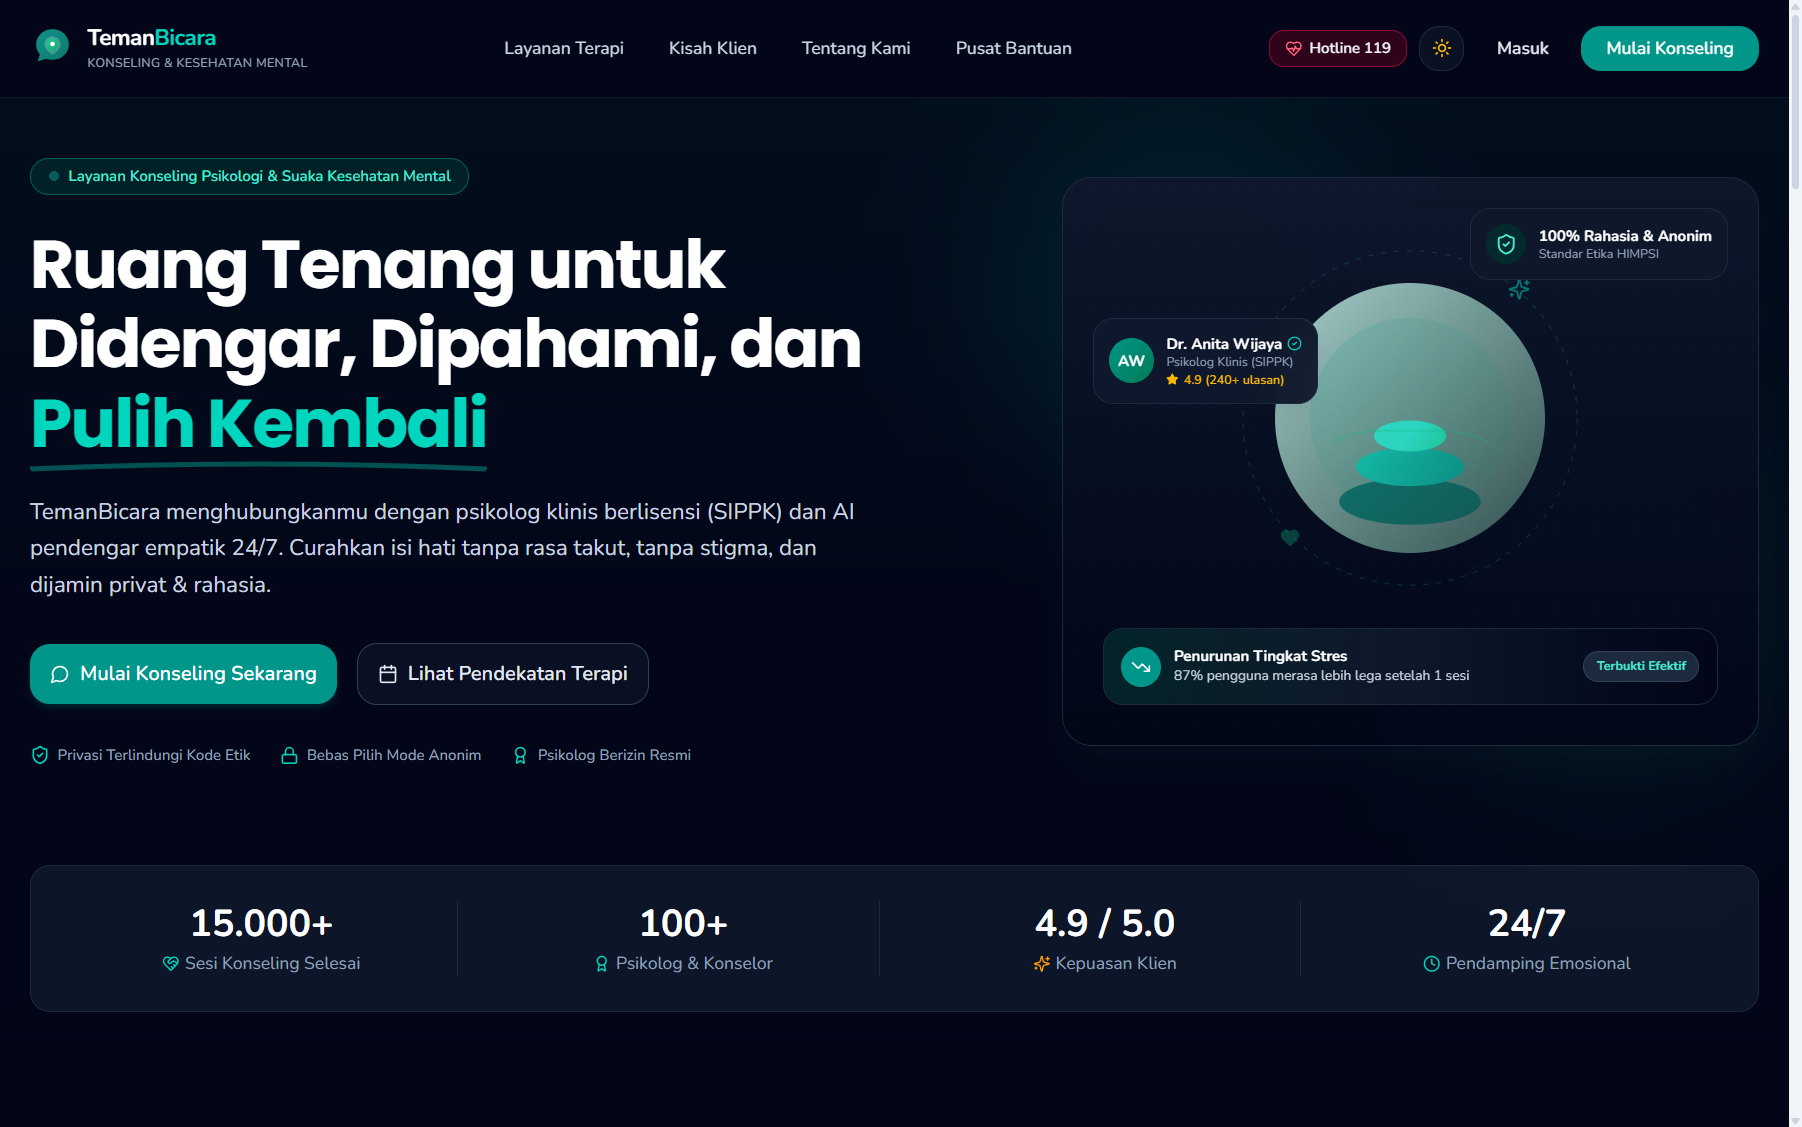
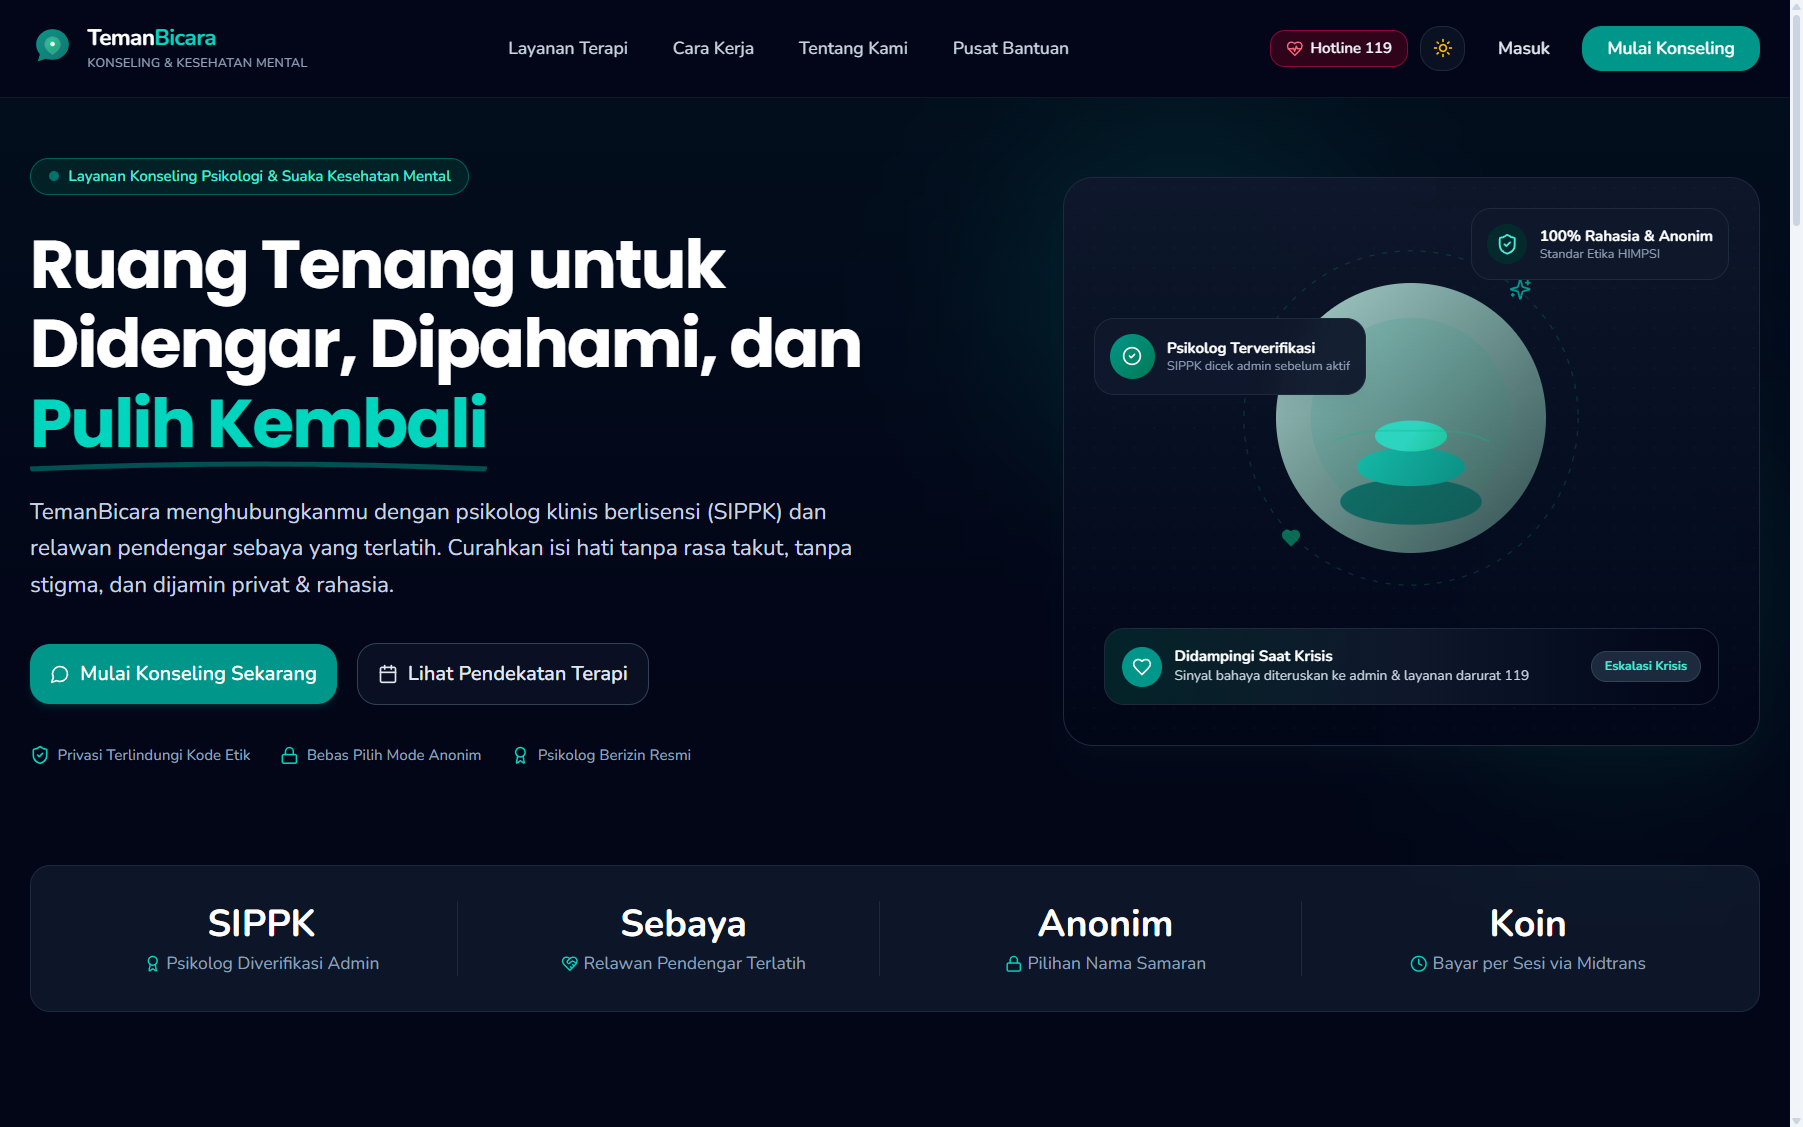
docs: README memuat peran pengguna & tech stack terbaru, gambar dipindah ke bawah + tampilan mobile; hapus DEVELOPMENT.md

diff --git a/README.md b/README.md
@@ -4,20 +4,36 @@ Platform konseling dan kesehatan mental. Pasien bisa memesan sesi dengan psikolo
 
 🔗 **[Demo live](https://temanbicara-app-eight.vercel.app)**
 
-![Landing page](screenshots/01-landing.png)
+## Peran Pengguna
 
-## Tampilan per Peran
+TemanBicara membagi hak akses dan fitur ke dalam empat portal kerja, masing-masing dengan dashboard sendiri.
 
-| Pasien | Psikolog |
-|---|---|
-| ![Beranda pasien](screenshots/02-pasien-beranda.png) | ![Beranda psikolog](screenshots/05-psikolog-beranda.png) |
-| ![Pilih psikolog untuk booking](screenshots/03-pasien-pilih-psikolog.png) | ![Honor dan payout psikolog](screenshots/06-psikolog-honor-payout.png) |
-| ![Riwayat top-up koin](screenshots/04-pasien-riwayat-topup.png) | ![Beranda relawan pendengar sebaya](screenshots/07-relawan-beranda.png) |
+### 1. Pasien
+- Booking sesi privat dengan psikolog klinis berlisensi (SIPPK), termasuk reschedule dan pembatalan dengan refund otomatis sesuai kebijakan
+- Curhat anonim dengan relawan pendengar sebaya lewat tiket curhat, plus riwayat curhat
+- Mode Anonim: identitas disamarkan selama sesi, dan juga di tampilan admin
+- Chat sesi berupa pesan teks, gambar, dan pesan suara
+- Dompet koin: top-up via Midtrans, kirim tip, dan beri ulasan setelah sesi
+- Kontak darurat, dan tombol lapor krisis saat sesi berlangsung
 
-| Admin | |
-|---|---|
-| ![Beranda admin](screenshots/08-admin-beranda.png) | ![Pengelolaan sengketa payout](screenshots/09-admin-sengketa.png) |
-| ![Pengaturan sistem](screenshots/10-admin-pengaturan.png) | |
+### 2. Psikolog
+- Jadwal mingguan dan waktu libur yang diatur sendiri
+- Ruang sesi dengan chat terintegrasi, serta catatan sesi dan riwayat klien
+- Honor sesi dan pengajuan payout ke rekening bank
+- Pengaturan ketersediaan. Pembatalan sepihak dan tidak hadir dikenai sistem strike dan penangguhan otomatis
+
+### 3. Relawan Pendengar Sebaya
+- Antrean curhat anonim yang diklaim sendiri, dengan batas beban harian
+- Status siaga untuk mengatur ketersediaan menerima tiket
+- Panduan etika mendengarkan aktif dan penanganan percakapan berisiko
+- Riwayat curhat, tip dan honor, serta pengajuan payout
+
+### 4. Administrator
+- Verifikasi berkas legalitas mitra (psikolog dan relawan)
+- Antrean payout, penanganan sengketa, dan audit transaksi koin
+- Feed eskalasi krisis untuk tindak lanjut laporan darurat
+- Moderasi ulasan dan pengelolaan status akun pengguna
+- Log aktivitas (login, aksi admin, sesi, uang, keselamatan) dan pengaturan sistem yang beraudit
 
 ## Fitur Utama
 
@@ -27,11 +43,20 @@ Platform konseling dan kesehatan mental. Pasien bisa memesan sesi dengan psikolo
 - **Curhat sebaya:** antrean tiket curhat anonim yang diklaim relawan, dengan batas beban harian
 - **Koin dan pencairan:** top-up koin via Midtrans, tip, dan pengajuan payout honor untuk mitra
 - **Keuangan yang aman:** buku besar (ledger) append-only, penahanan dana saat refund/chargeback, dan layar admin untuk menyelesaikan sengketa
-- **Dashboard admin:** verifikasi mitra, antrean payout, sengketa, feed eskalasi krisis, dan pengaturan sistem beraudit
+- **Dashboard admin:** verifikasi mitra, antrean payout, sengketa, feed eskalasi krisis, log aktivitas, dan pengaturan sistem beraudit
+- **Responsif:** tata letak dan ruang chat dirapikan untuk layar HP
 
 ## Tech Stack
 
-Next.js 15 · React 19 · TypeScript · Tailwind CSS 4 · Zustand · Supabase (PostgreSQL + RLS + Realtime) · Zod · Midtrans · Vitest · Vercel
+- **Framework:** Next.js 15 (App Router, Turbopack, Route Handlers sebagai API) dan React 19
+- **Backend dan autentikasi:** Supabase (PostgreSQL, RLS, Realtime, Google OAuth)
+- **Pembayaran:** Midtrans (sandbox)
+- **Bahasa:** TypeScript
+- **Styling:** Tailwind CSS 4, Shadcn UI (Radix UI)
+- **State:** Zustand
+- **Validasi dan formulir:** Zod, React Hook Form
+- **Pengujian:** Vitest
+- **Lainnya:** Lucide React dan React Icons, Date-fns, Sonner, Vercel
 
 ## Arsitektur Singkat
 
@@ -51,7 +76,7 @@ Semua mutasi uang (top-up, bayar sesi, tip, payout, potong saldo sengketa) berja
 
 ## Pengujian
 
-172 tes otomatis (Vitest) untuk alur yang paling berisiko:
+184 tes otomatis (Vitest) untuk alur yang paling berisiko:
 
 | Area | Contoh yang diuji |
 |---|---|
@@ -59,6 +84,7 @@ Semua mutasi uang (top-up, bayar sesi, tip, payout, potong saldo sengketa) berja
 | Login & sesi | token tidak valid, akun ditangguhkan/ditolak, proteksi rute cron |
 | Validasi | skema auth, dokumen mitra, path media sesi (anti path traversal) |
 | Booking | tarif koin, aturan refund, aturan reschedule, jendela ruang sesi |
+| Log aktivitas | filter kategori, pencarian nama, rentang tanggal, samaran Mode Anonim |
 
 ```bash
 npm test
@@ -80,8 +106,11 @@ Pembayaran memakai **Midtrans sandbox**, jadi tidak ada uang sungguhan. Saat top
 - Row Level Security di database, dan akses service role hanya dari server
 - Validasi input di server dengan Zod, dan pesan error tidak membocorkan detail database
 - Webhook Midtrans diverifikasi signature-nya dan diproses secara idempoten
+- Log aktivitas bersifat append-only dan menyamarkan identitas pasien Mode Anonim
 
 ## Menjalankan Secara Lokal
+
+Prasyarat: Node.js 20 atau lebih baru.
 
 ```bash
 git clone https://github.com/wxhyxtrx/temanbicara-app.git
@@ -91,6 +120,35 @@ cp .env.example .env.local   # isi variabel Supabase & Midtrans sandbox
 npm run dev
 ```
 
+Buka [http://localhost:3000](http://localhost:3000). Akun Psikolog dan Relawan memerlukan verifikasi Admin. Akun Admin tidak bisa didaftarkan lewat halaman register dan dibuat langsung di proyek Supabase. Untuk login Google, aktifkan provider Google di Supabase dan tambahkan `http://localhost:3000/api/auth/oauth/google/callback` ke daftar Redirect URL.
+
 ## Status
 
 Proyek portofolio, belum untuk penggunaan produksi. Pembayaran berjalan di mode sandbox. Belum tersedia: ekspor PDF, autentikasi dua faktor (2FA), dan pengingat via WhatsApp.
+
+## Tampilan Aplikasi
+
+### Desktop
+
+![Landing page](screenshots/01-landing.png)
+
+| Pasien | Psikolog |
+|---|---|
+| ![Beranda pasien](screenshots/02-pasien-beranda.png) | ![Beranda psikolog](screenshots/05-psikolog-beranda.png) |
+| ![Pilih psikolog untuk booking](screenshots/03-pasien-pilih-psikolog.png) | ![Honor dan payout psikolog](screenshots/06-psikolog-honor-payout.png) |
+| ![Riwayat top-up koin](screenshots/04-pasien-riwayat-topup.png) | ![Beranda relawan pendengar sebaya](screenshots/07-relawan-beranda.png) |
+
+| Admin | |
+|---|---|
+| ![Beranda admin](screenshots/08-admin-beranda.png) | ![Pengelolaan sengketa payout](screenshots/09-admin-sengketa.png) |
+| ![Pengaturan sistem](screenshots/10-admin-pengaturan.png) | |
+
+### Mobile
+
+| Landing | Beranda pasien | Booking sesi | Top-up koin |
+|---|---|---|---|
+| ![Landing HP](screenshots/mobile-01-landing.jpg) | ![Beranda pasien HP](screenshots/mobile-02-pasien-beranda.jpg) | ![Pilih jadwal HP](screenshots/mobile-03-pilih-jadwal.jpg) | ![Top-up HP](screenshots/mobile-04-topup.jpg) |
+
+| Ruang sesi | Jadwal psikolog | Ruang curhat relawan | Admin |
+|---|---|---|---|
+| ![Ruang sesi HP](screenshots/mobile-05-ruang-sesi.jpg) | ![Jadwal psikolog HP](screenshots/mobile-06-psikolog-jadwal.jpg) | ![Ruang dengar relawan HP](screenshots/mobile-07-relawan-ruang-dengar.jpg) | ![Eskalasi krisis HP](screenshots/mobile-08-admin-krisis.jpg) |
